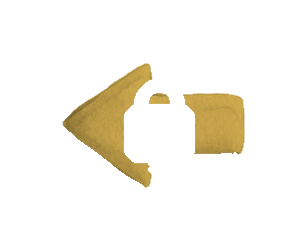
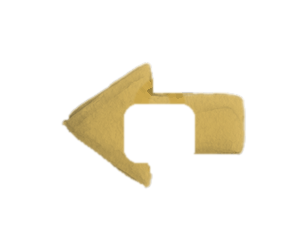
Map arrows rebuilt without the lock hole; manual and TODO: build 2, chapter 2 started

diff --git a/Docs/MANUAL.md b/Docs/MANUAL.md
@@ -17,8 +17,8 @@ Last updated 14 October 2026, evening (menu book, economy tune, tutorial additio
 | Repo | https://github.com/Betsy215/Sept (**public**: never commit keys, issuer ids or tokens), branch `main` |
 | Live | **26.10.13 build 4** (released by the owner by 16 October 2026; version id 0abde827-2bd8-47e1-959e-c9f7d63d06a4). Before it: 26.10.09 build 4, released 12 October |
 | In review | Nothing |
-| TestFlight | 26.10.17 build 1 (16 October evening, everything on main up to the shared ovens; batchmode export, `Builds/iOS-26.10.17-1`). Before it 26.10.13 builds 1 to 4 (4 = the submitted one). `ProjectSettings` is at 26.10.17 build 1 |
-| On main after build 4 | 13 October night fixes, and 14 October: the menu book (grid, oven notes, station caps), Cookies back as a buy, the economy tune, Day 0 coffee bags and fruit tree, the gingham order receipt and finish panel, real star shapes, test ads on TestFlight builds, chapter 2 groundwork. Not in any build yet; 16 October: Unity Analytics (AnalyticsLog, development environment for editor and TestFlight), the menu as a single board that shrinks to a small copy of itself when closed (no table icon), shop prices in layers per category (16 October evening, lowered on the owner's "probably lower": Juice 110, Apple 300, Cookies 600, Choux 1,000, Cake 1,500; Yoga 220, Grandma 380, Chef 700, Businessman 1,400; plates 380, coffee machine 800; pots 450 and 900; $8,740 in all; the afternoon's set was $10,650, before that $5,350), the text system (black titles and money with a cream rim, brown rimless hints, orange buttons), the two flower pots as Decor shop items (600 and 1,400; +15 % order time each, `DecorGate`, `purchasedDecor`), Daily Treats' repeatable "One more treat" ad button (20 to 50 coins, `DailyTreatsAd`; the button says ONE MORE TREAT alone), the chapter 1 background with Gemini's bushes behind our grass (`Store/bg_polish/bush_blend.py`, the old file in `bg_original.png`), the pots cut along the objects, chapter-only foods and sticker paper colours (`SessionManager.FoodChapter`: Apple and Coffee chapter 1, Coconut and IceCream chapter 2; `IsFoodInSeason`; `MenuBook.PaperColour` mint/yellow/blue; another chapter's food greyed in the carousel), shared ovens (`OvenAssigner`, `OvenKitchenBase.BakeTimes`), the placed sound when a sticker lands (serve sound, Juice only today). In TestFlight 26.10.17 (1). After that upload: the menu stickers' first full run (`Store/ui/stickers/stickers_v2.py`: the old notes' paper, a corner flip and a thin edge on each, the food's own sprite with a white rim, no words; old files in `Store/ui/stickers/orig`), paper tilt on the menu 4 degrees at most; the order receipt back to the white one with the barcode (`paper 4.png` from before 14 October, text at (-5, 20)); the patience meter picks its flower by chapter (`PatienceMeter.Chapter2Kind`, sprites `Resources/Patience/<kind>_petal|_centre`, `PreviewKind` for editor previews; `Store/artkit/hibiscus_options.py`); the shop laid out at runtime (`ShopManager.LayoutCards`: sorted cheap to expensive, three columns, `cardScale` 0.62, the content box sized to the rows so the arrows and a drag share the same bounds and the lock shows at the bottom either way), purchase feedback in the label's own colour, the day-end money lines centred with the amount on its own line when it would not fit (`LevelManager.SetMoneyLine`), the menu carousel stickers doubled (280), days 1 to 8 five seconds longer and 9 to 16 ten seconds longer (`Level*Data.dayDurationSeconds`; star lines unchanged, checked with the driver) |
+| TestFlight | 26.10.17 build 2 (16 October 17:58: the shop layout, popup, prices, day-end note, carousel, longer days, stickers, white receipt, cookies; `Builds/iOS-26.10.17-2`) and build 1 (16 October evening, up to the shared ovens; `Builds/iOS-26.10.17-1`). Before it 26.10.13 builds 1 to 4 (4 = the submitted one). `ProjectSettings` is at 26.10.17 build 2 |
+| On main after build 4 | 13 October night fixes, and 14 October: the menu book (grid, oven notes, station caps), Cookies back as a buy, the economy tune, Day 0 coffee bags and fruit tree, the gingham order receipt and finish panel, real star shapes, test ads on TestFlight builds, chapter 2 groundwork. Not in any build yet; 16 October: Unity Analytics (AnalyticsLog, development environment for editor and TestFlight), the menu as a single board that shrinks to a small copy of itself when closed (no table icon), shop prices in layers per category (16 October evening, lowered on the owner's "probably lower": Juice 110, Apple 300, Cookies 600, Choux 1,000, Cake 1,500; Yoga 220, Grandma 380, Chef 700, Businessman 1,400; plates 380, coffee machine 800; pots 450 and 900; $8,740 in all; the afternoon's set was $10,650, before that $5,350), the text system (black titles and money with a cream rim, brown rimless hints, orange buttons), the two flower pots as Decor shop items (600 and 1,400; +15 % order time each, `DecorGate`, `purchasedDecor`), Daily Treats' repeatable "One more treat" ad button (20 to 50 coins, `DailyTreatsAd`; the button says ONE MORE TREAT alone), the chapter 1 background with Gemini's bushes behind our grass (`Store/bg_polish/bush_blend.py`, the old file in `bg_original.png`), the pots cut along the objects, chapter-only foods and sticker paper colours (`SessionManager.FoodChapter`: Apple and Coffee chapter 1, Coconut and IceCream chapter 2; `IsFoodInSeason`; `MenuBook.PaperColour` mint/yellow/blue; another chapter's food greyed in the carousel), shared ovens (`OvenAssigner`, `OvenKitchenBase.BakeTimes`), the placed sound when a sticker lands (serve sound, Juice only today). In TestFlight 26.10.17 (1). After that upload: the menu stickers' first full run (`Store/ui/stickers/stickers_v2.py`: the old notes' paper, a corner flip and a thin edge on each, the food's own sprite with a white rim, no words; old files in `Store/ui/stickers/orig`), paper tilt on the menu 4 degrees at most; the order receipt back to the white one with the barcode (`paper 4.png` from before 14 October, text at (-5, 20)); the patience meter picks its flower by chapter (`PatienceMeter.Chapter2Kind`, sprites `Resources/Patience/<kind>_petal|_centre`, `PreviewKind` for editor previews; `Store/artkit/hibiscus_options.py`); the shop laid out at runtime (`ShopManager.LayoutCards`: sorted cheap to expensive, three columns, `cardScale` 0.62, the content box sized to the rows so the arrows and a drag share the same bounds and the lock shows at the bottom either way), purchase feedback in the label's own colour, the day-end money lines centred with the amount on its own line when it would not fit (`LevelManager.SetMoneyLine`), the menu carousel stickers doubled (280), days 1 to 8 five seconds longer and 9 to 16 ten seconds longer (`Level*Data.dayDurationSeconds`; star lines unchanged, checked with the driver). Chapter 2 build started 16 October night behind `Chapter.Count = 1` (a static field now, flipped by the `ch2_*` recipes for tests): `Level25..32Data`, the map in pages (`MapScreen.page`, `StarsCh2`, `Resources/Map/bg_ch2`, `title_ch2`, `arrow_right`, `arrow_left`), `Resources/Chapter2/bg_day`, `bg_night` (DayNightTint fades the painted night in), `cloth` (the owner's stripes), `shop_bg` (the owner's pick), all through `Chapter.Art` |
 
 What 26.10.13 brings over 26.10.09: two customers at the counter at once, days on a clock (dusk and night as the
 day ends), patience as three daisies per order (each serve brings one back), the chapter map (16 days, stars,

diff --git a/Docs/TODO.md b/Docs/TODO.md
@@ -7,7 +7,7 @@ Current open work, as of 13 October 2026 (night). Done items are removed; the da
 
 - [ ] **Owner decides:** ship without chapter 2 (my pick) or hold for it; re-tune the star lines; release note text; privacy
   label entry (Usage Data / Product Interaction); the store description's "two customers" wording.
-- [ ] **TestFlight first** (26.10.17 build 1, uploaded 16 October evening): the one-more-treat ad button, test ads, analytics events, the menu on iPad, shared ovens.
+- [ ] **TestFlight first** (26.10.17 build 2, uploaded 16 October 17:58; build 1 before it): the one-more-treat ad button, test ads, analytics events, the menu on iPad, shared ovens, the shop layout and popup, the day-end note, the longer days.
 - [ ] **Store screenshots:** redo for the menu, prices and background; the banner must not say "16 days", use
   "earn stars along the trip" (owner, 16 October). `Store/screenshots/caption.py`.
 - [ ] **Next release after this one:** stars as a second currency (earned by play, a replay never pays the same star twice;
